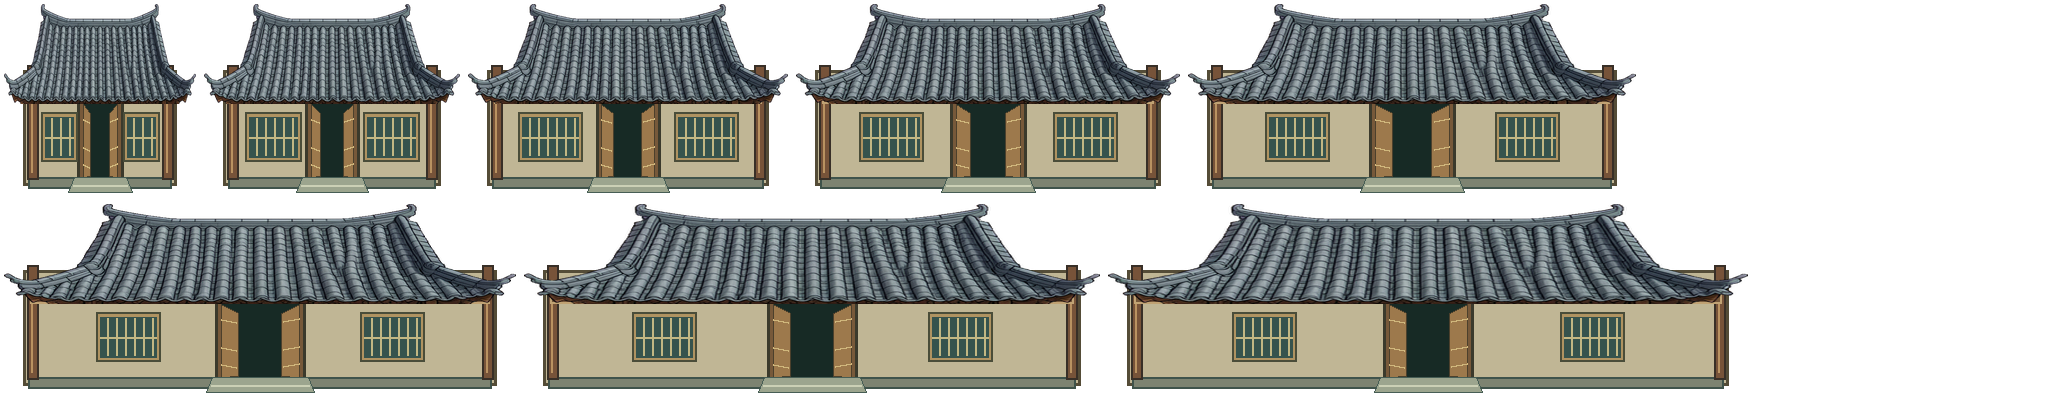
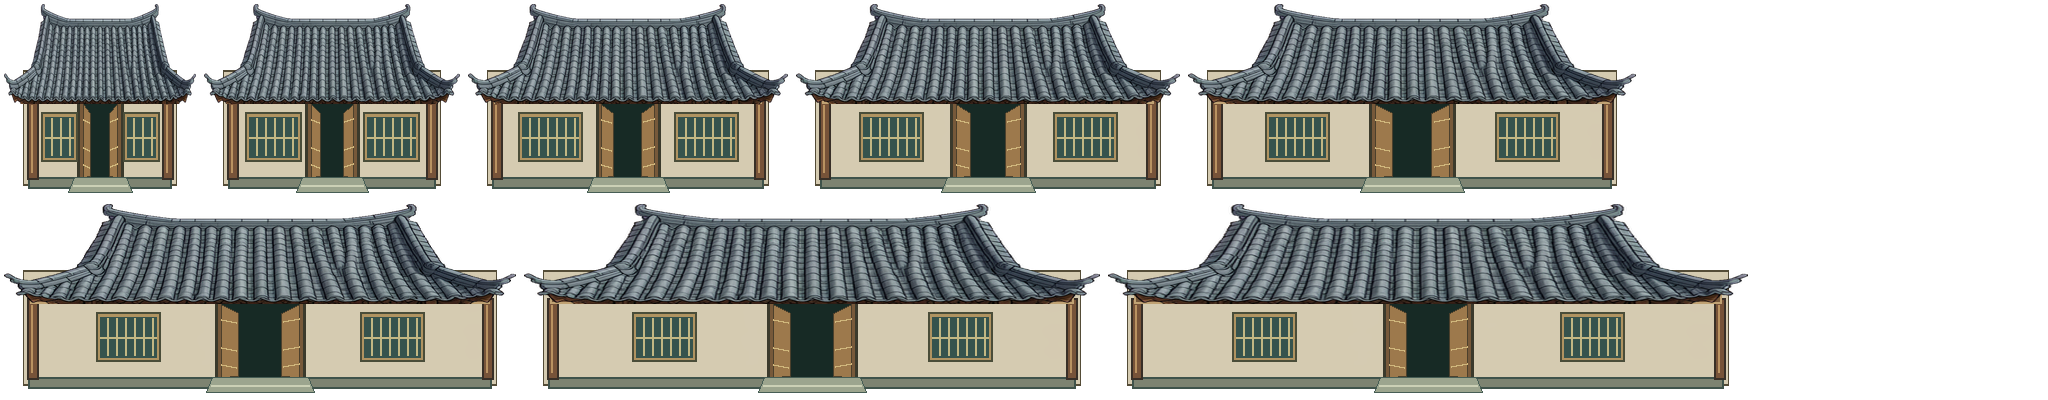
fix: match cave walls and shop plaster to existing painted stonework

diff --git a/tool/fmj_art_v6.py b/tool/fmj_art_v6.py
@@ -304,9 +304,11 @@ def main():
         w=span*64;h=192;im=Image.new('RGBA',(w,h));d=ImageDraw.Draw(im)
         # 窗与门的位置始终对应原宽建筑中心的出入口，纯色暗区只存在于真正的门洞。
         d.rectangle((19,66,w-20,181),fill='#c0b695',outline='#544c37',width=3)
+        plaster=Image.open(ART/'surface-wall-plaster.png').convert('RGBA').resize((w-40,112),R)
+        im.alpha_composite(plaster,(20,68));d=ImageDraw.Draw(im)
         d.rectangle((24,173,w-25,184),fill='#7d8371',outline='#3f534b',width=2)
         for x in [23,w-34]:
-            d.rectangle((x,61,x+11,175),fill='#775339',outline='#382f27',width=2);d.line((x+4,76,x+4,168),fill='#b99261',width=2)
+            d.rectangle((x,94,x+11,175),fill='#775339',outline='#382f27',width=2);d.line((x+4,101,x+4,168),fill='#b99261',width=2)
         opening=max(34,min(78,w//6));cx=w//2
         d.rectangle((cx-opening//2-6,92,cx+opening//2+6,179),fill='#77593a',outline='#3b3a2c',width=3)
         d.rectangle((cx-opening//2,100,cx+opening//2,173),fill='#172a25')
@@ -327,13 +329,15 @@ def main():
         building_page.alpha_composite(im,(xx+4,yy+4));key=f'building:hall-wide-{span}/0';hd['frames'][key]=[bt,xx+4,yy+4,w,h];sources['frames'][key]=dict(source='tool/fmj_art_v6.py',derivedFrom='building:hall/0',details='timber facade; latticed windows; open doors; stone doorstep; original entrance unchanged');xx+=w+8;rowh=max(rowh,h)
     building_page.crop((0,0,2048,yy+rowh+8)).save(ART/bfile,optimize=True)
     # 连续山壁沿原始山壁格铺设，有层理、嵌缝和明暗；不再出现逐格云纹块。
-    w=h=512;yy,xx=np.mgrid[:h,:w];noise=np.random.default_rng(60).normal(0,1.2,(h,w))
-    grain=4*np.sin(xx/49+np.sin(yy/69))+3*np.cos(yy/37)+noise
-    rock=np.stack([97+grain,115+grain,105+grain],axis=2).clip(0,255).astype('uint8');wall=Image.fromarray(rock).convert('RGBA');d=ImageDraw.Draw(wall)
-    for y in [0,103,231,367,511]:
-        pts=[(x,y+math.sin(x/53)*8)for x in range(-32,545,8)];d.line(pts,fill='#344d44',width=5);d.line([(x,y+5)for x,y in pts],fill='#879781',width=3)
-    for x,y in [(52,12),(273,110),(418,248),(180,373)]:
-        d.line([(x,y),(x+18,y+31),(x+7,y+58),(x+23,y+86)],fill='#405b4d',width=3)
+    w=h=512;yy,xx=np.mgrid[:h,:w]
+    # 复用游戏既有的手绘灰岩质感与青苔，而不是把墙壁画成几条平面色带。
+    # 横向的周期变形打散方砖感，连续采样仍严格以512为周期，接缝不会跳色。
+    rock=np.array(Image.open(ART/'surface-rock-ground.png').convert('RGB').resize((w,h),R)).astype(float)
+    shift=np.round(13*np.sin(yy*math.tau/h)+5*np.sin(yy*math.tau*3/h)).astype(int)
+    rock=rock[yy,(xx+shift)%w]
+    light=.81+.07*np.cos(yy*math.tau/h)+.045*np.sin(xx*math.tau/h)
+    rock=(rock*light[:,:,None]*np.array([.94,1.0,.96])).clip(0,255).astype('uint8')
+    wall=Image.fromarray(rock).convert('RGBA')
     wall.save(ART/'surface-mountain-wall-v6.png',optimize=True);hd['groundTextures']['mountain-wall']='surface-mountain-wall-v6.png'
     marks=json.loads((ART/'scene-landmarks.json').read_text())
     for mid,rows in marks.items():

diff --git a/CHANGELOG.md b/CHANGELOG.md
@@ -2,6 +2,9 @@
 
 ## 未发布
 
+- 完整包含本轮216件彩色物品图标、全队姓名等级气血、鹤鸣山洞不点卡片宝箱优先导航、四象和钥匙默认使用、药房门窗及洞口名称清理。
+- 根据正式渲染画面进一步调整三清宫药房等建筑的墙面纹理与柱顶遮挡；霸王迷宫等山壁采用与洞口一致的手绘灰岩和青苔材质，补足岩面明暗和嵌缝。
+
 ## 1.0.17+18
 
 - 为伏魔记全部216件物品补齐彩色图标，统一显示在商店购买/出售、背包使用/装备、穿戴和战斗物品菜单；选中物品同步展示大图。
